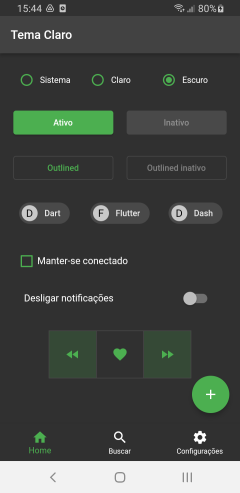
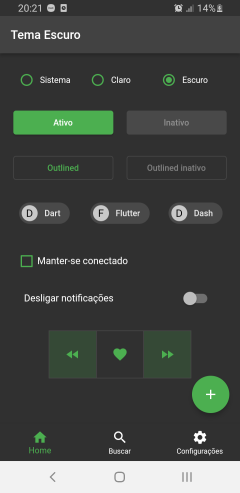
Fix: Titulo do app não atualizava

diff --git a/tema_escuro/src/lib/principal_page.dart b/tema_escuro/src/lib/principal_page.dart
@@ -8,7 +8,14 @@ class PrincipalPage extends StatelessWidget {
   Widget build(BuildContext context) {
     return Scaffold(
       appBar: AppBar(
-        title: Text('Tema ' + _getNomeTema()),
+        title: ValueListenableBuilder(
+          valueListenable: Configuracoes.tema,
+          builder: (context, tema, child) {
+            return Text(
+              'Tema ' + _getNomeTema(),
+            );
+          },
+        ),
       ),
       body: Padding(
         padding: const EdgeInsets.all(20),
